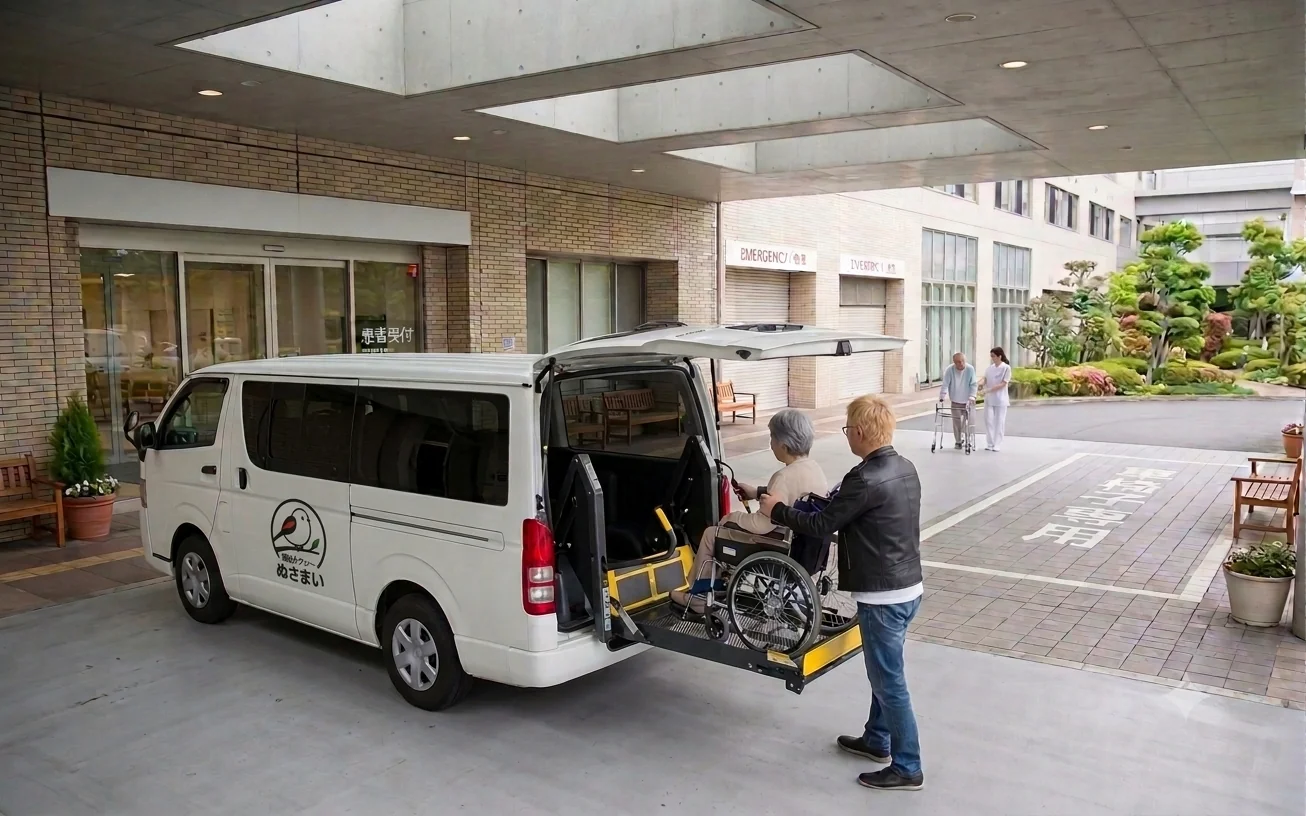
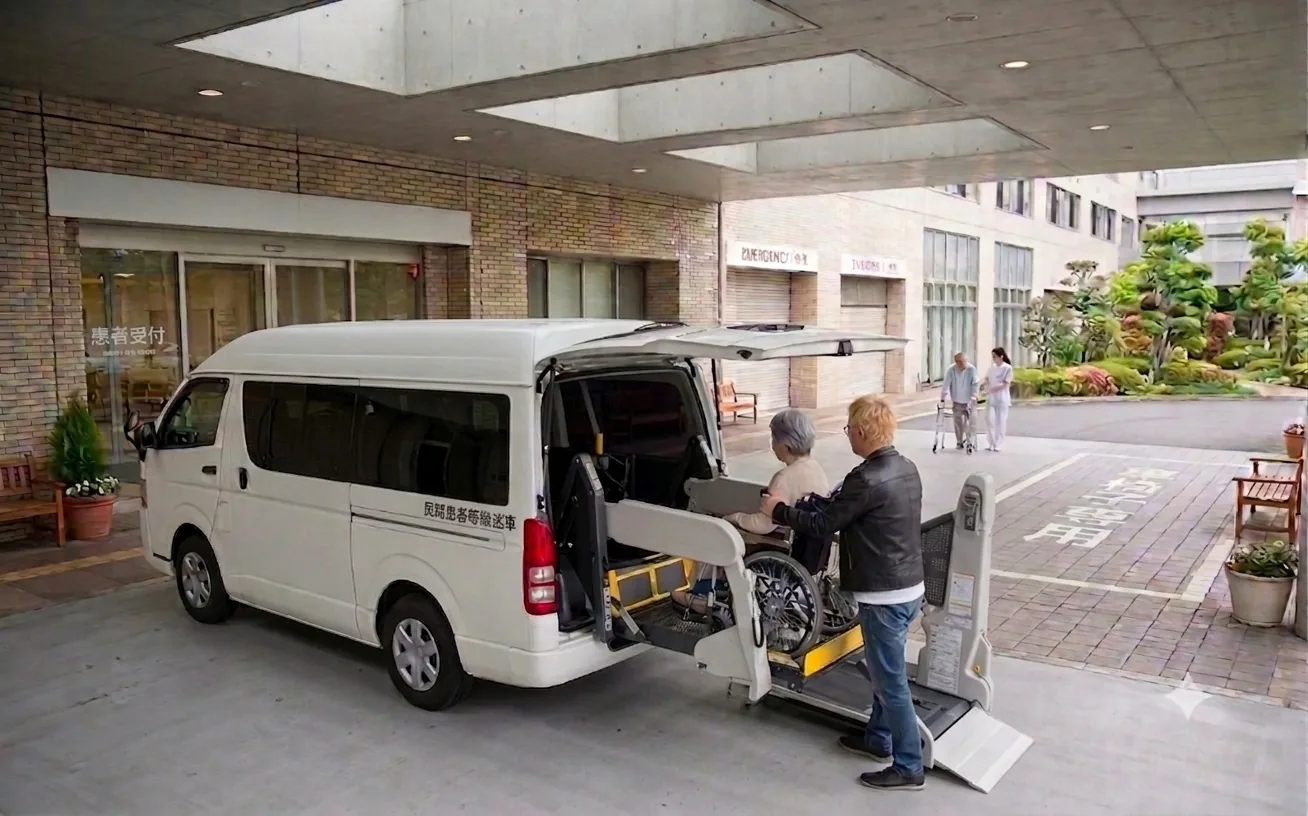
chore: vehicle.png 削除・guide 車両カードの仮挿入ラベルを除去

diff --git a/guide.html b/guide.html
@@ -235,7 +235,7 @@
         </div>
       </div>
       <div class="equip-card">
-        <div class="equip-img" style="background-image: url('img/vehicle.jpg'); background-size: cover; background-position: center;"><span>仮挿入</span></div>
+        <div class="equip-img" style="background-image: url('img/vehicle.webp'); background-size: cover; background-position: center;"></div>
         <div class="equip-body">
           <h3>搬送車両</h3>
           <p class="equip-spec">